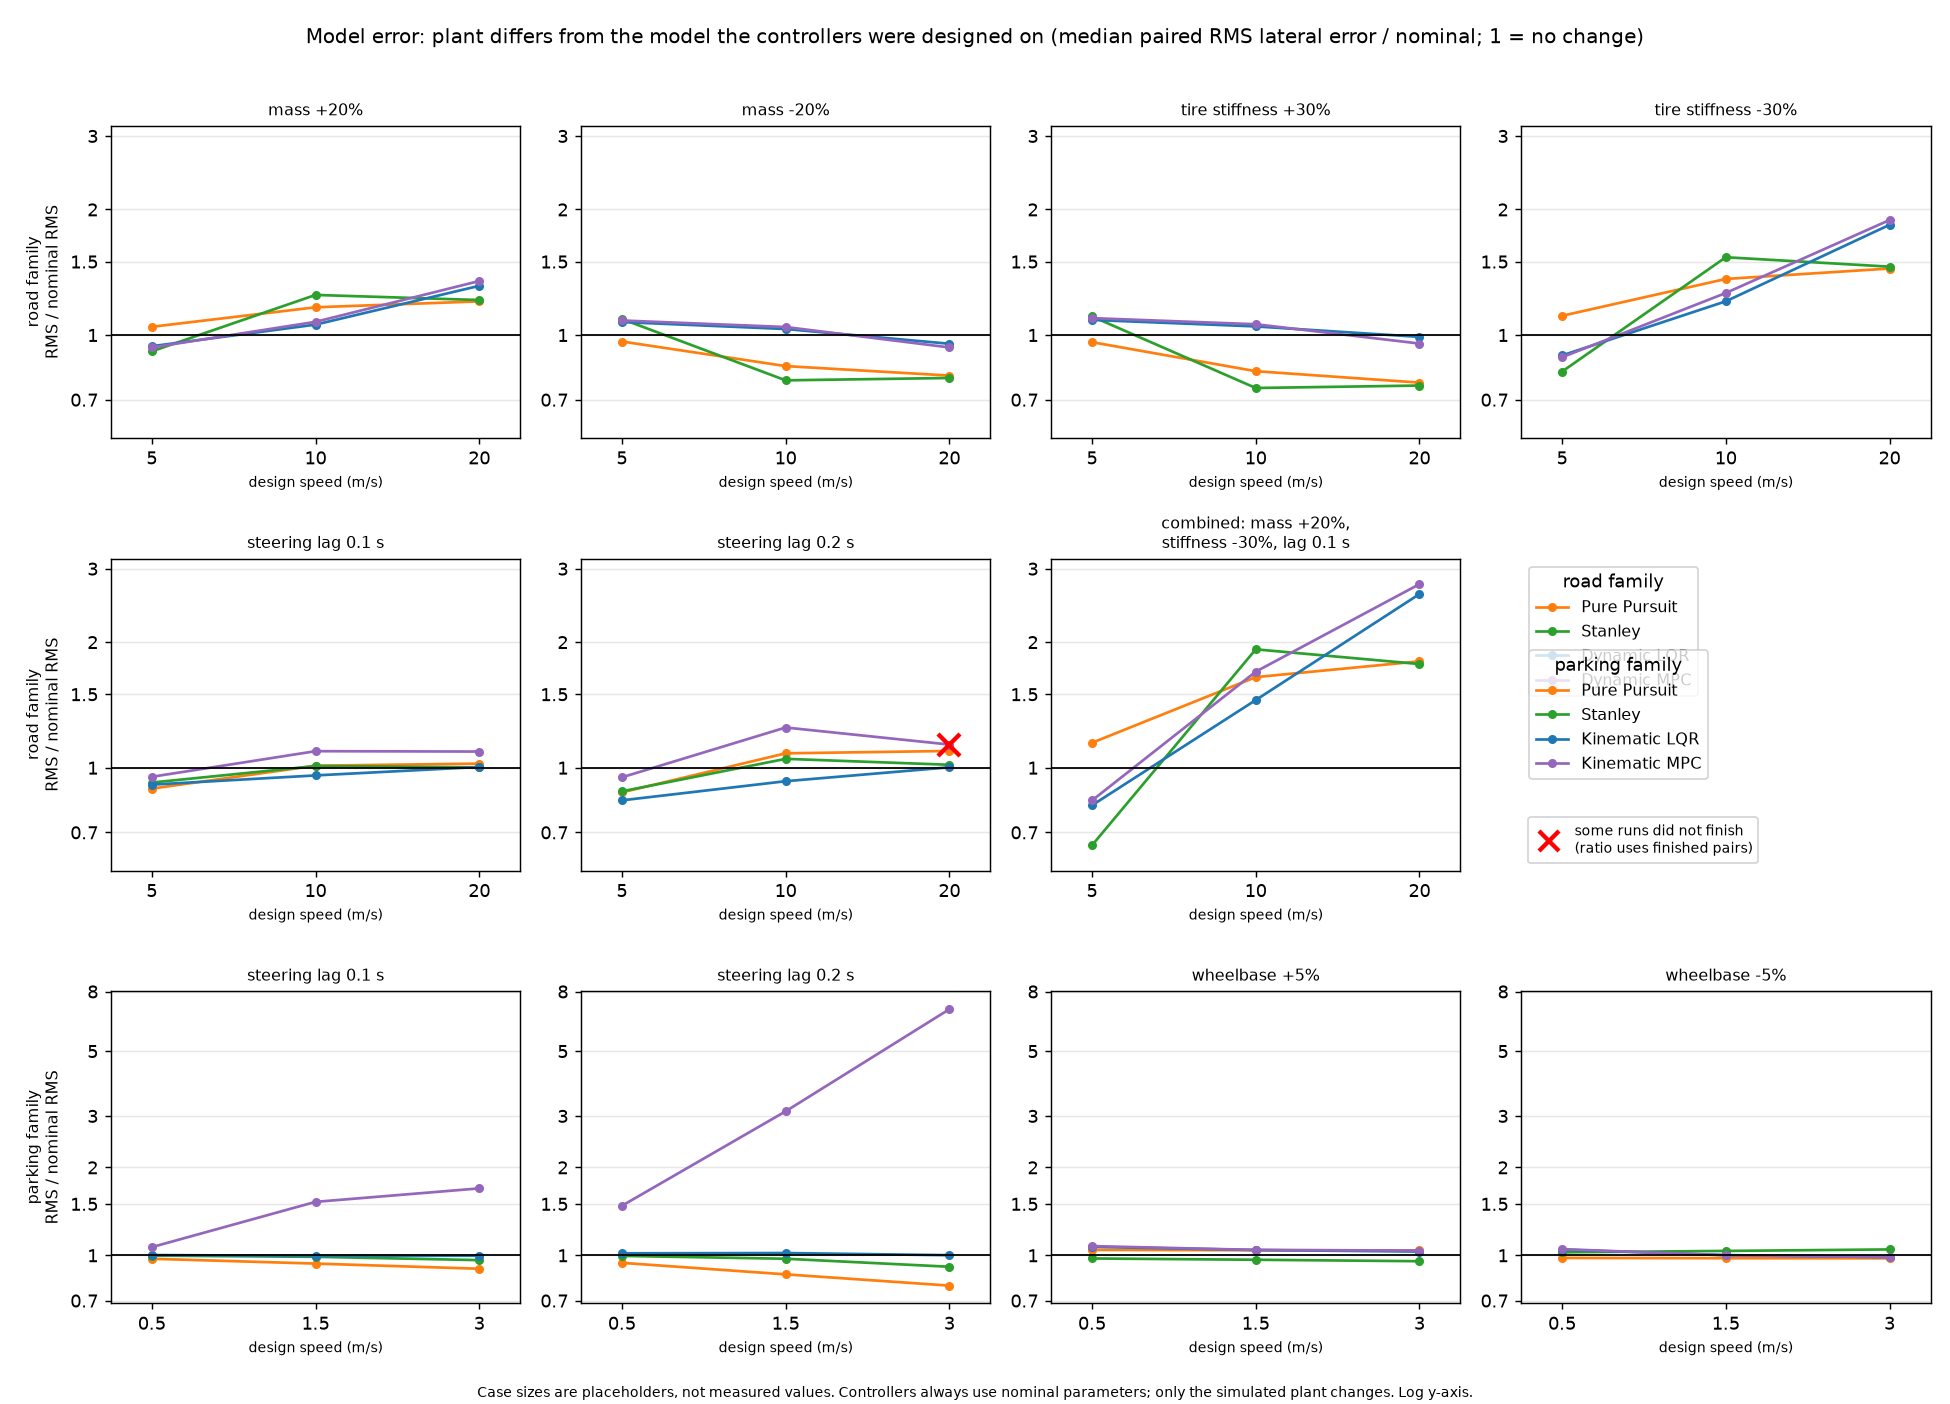
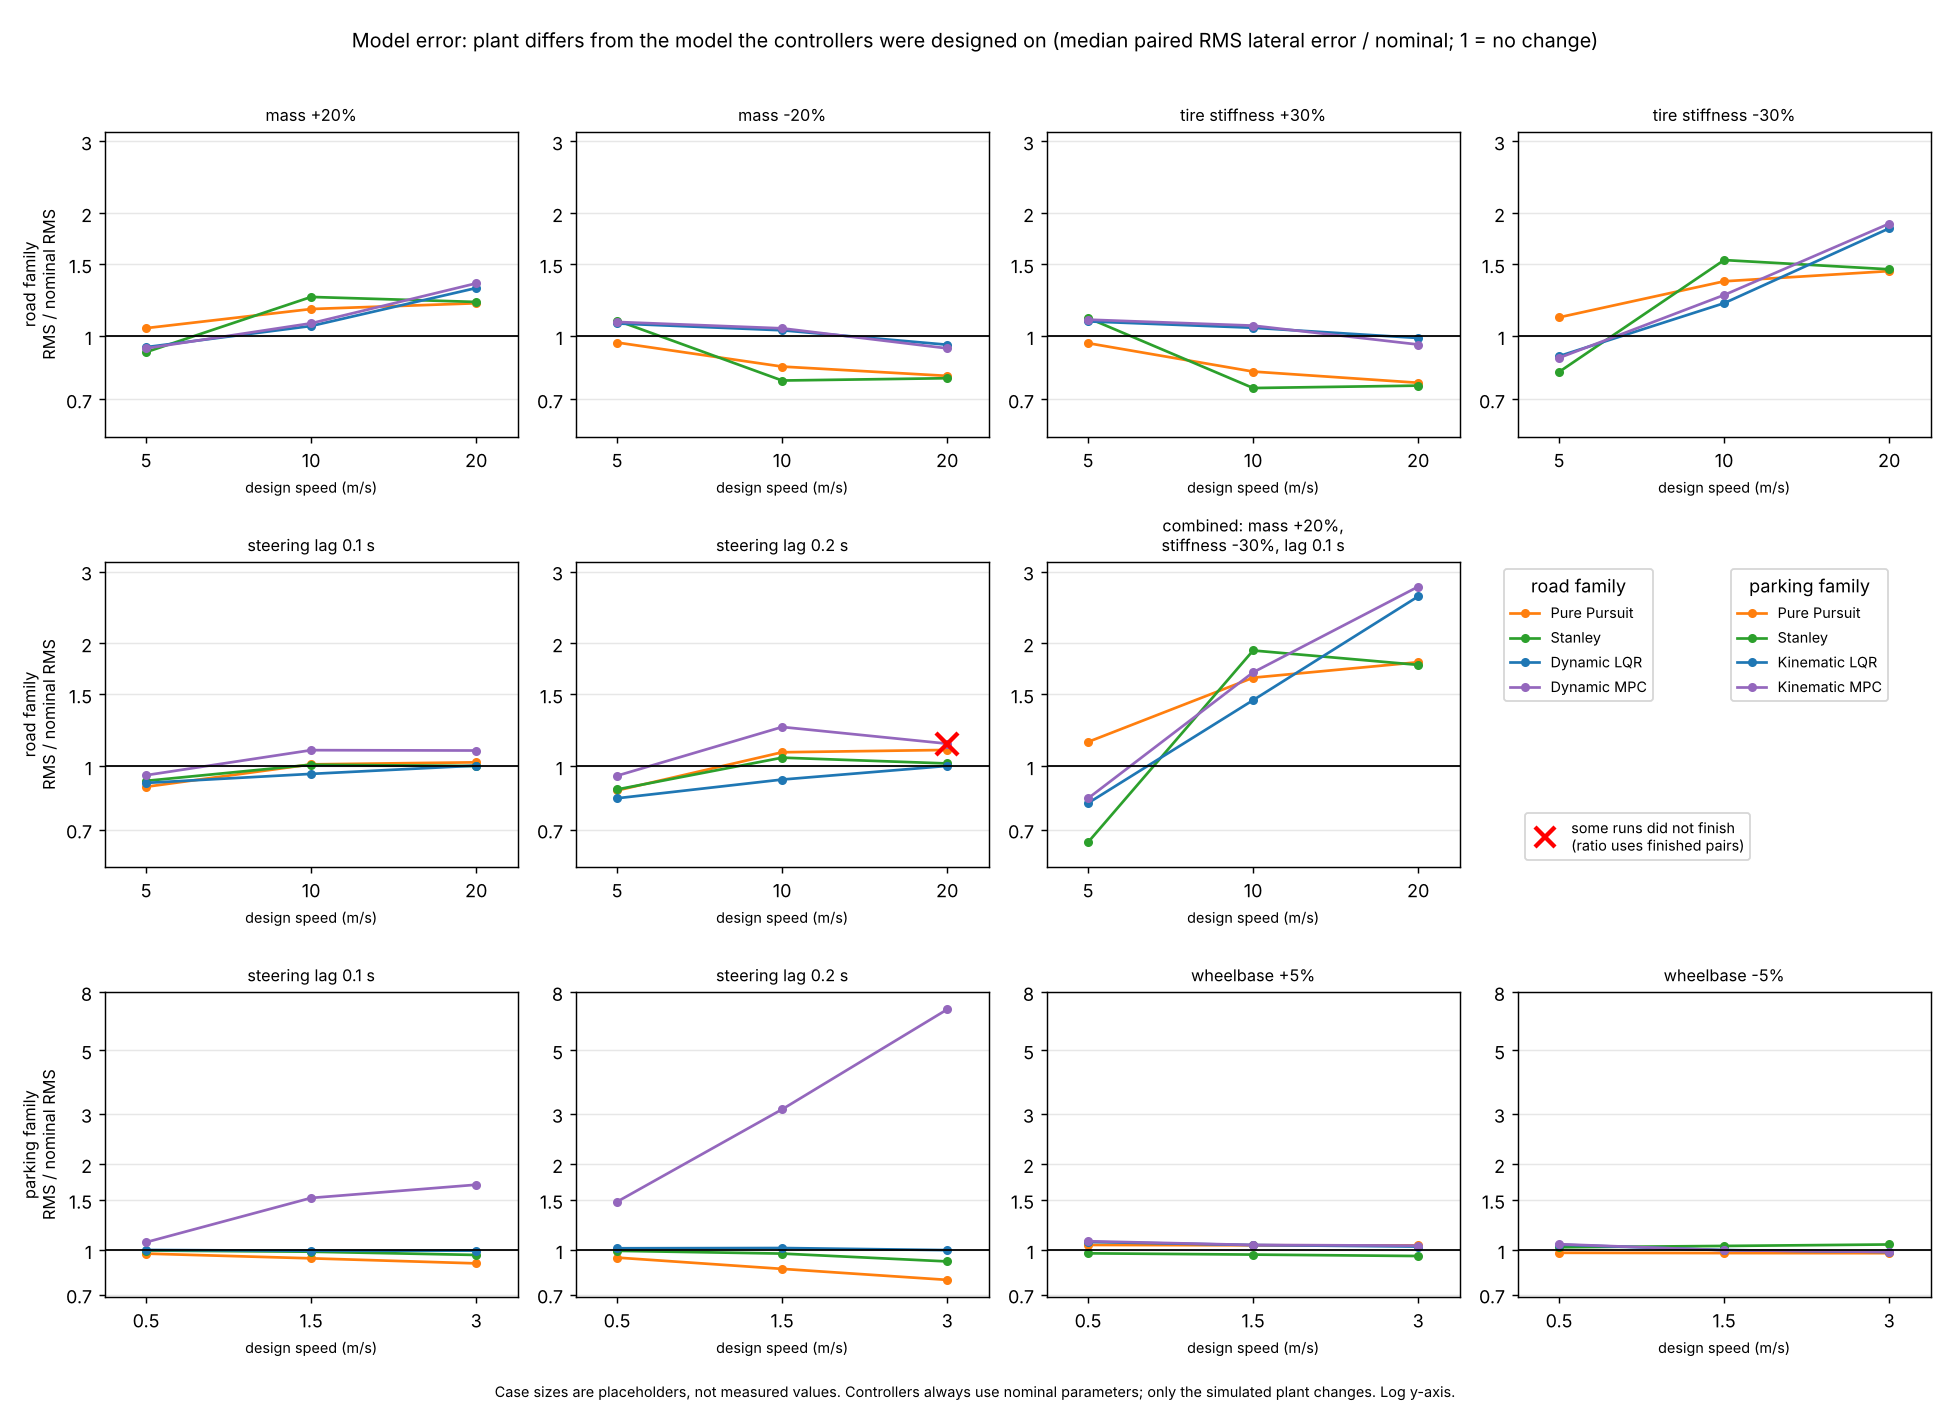
Fix overlapping legends in model_error figure

diff --git a/scripts/plot_model_error.py b/scripts/plot_model_error.py
@@ -74,9 +74,9 @@ leg.axis("off")
 road_h = [Line2D([], [], color=COL[c], marker="o", ms=4, label=c) for c in order("road", "controller")]
 park_h = [Line2D([], [], color=COL[c], marker="o", ms=4, label=c) for c in order("parking", "controller")]
 x_h = Line2D([], [], color="red", marker="x", ls="", ms=11, mew=2.4, label="some runs did not finish\n(ratio uses finished pairs)")
-l1 = leg.legend(handles=road_h, title="road family", loc="upper left", fontsize=9)
+l1 = leg.legend(handles=road_h, title="road family", loc="upper left", bbox_to_anchor=(-0.05, 1.0), fontsize=8)
 leg.add_artist(l1)
-l2 = leg.legend(handles=park_h, title="parking family", loc="center left", fontsize=9)
+l2 = leg.legend(handles=park_h, title="parking family", loc="upper left", bbox_to_anchor=(0.5, 1.0), fontsize=8)
 leg.add_artist(l2)
 leg.legend(handles=[x_h], loc="lower left", fontsize=8)
 
